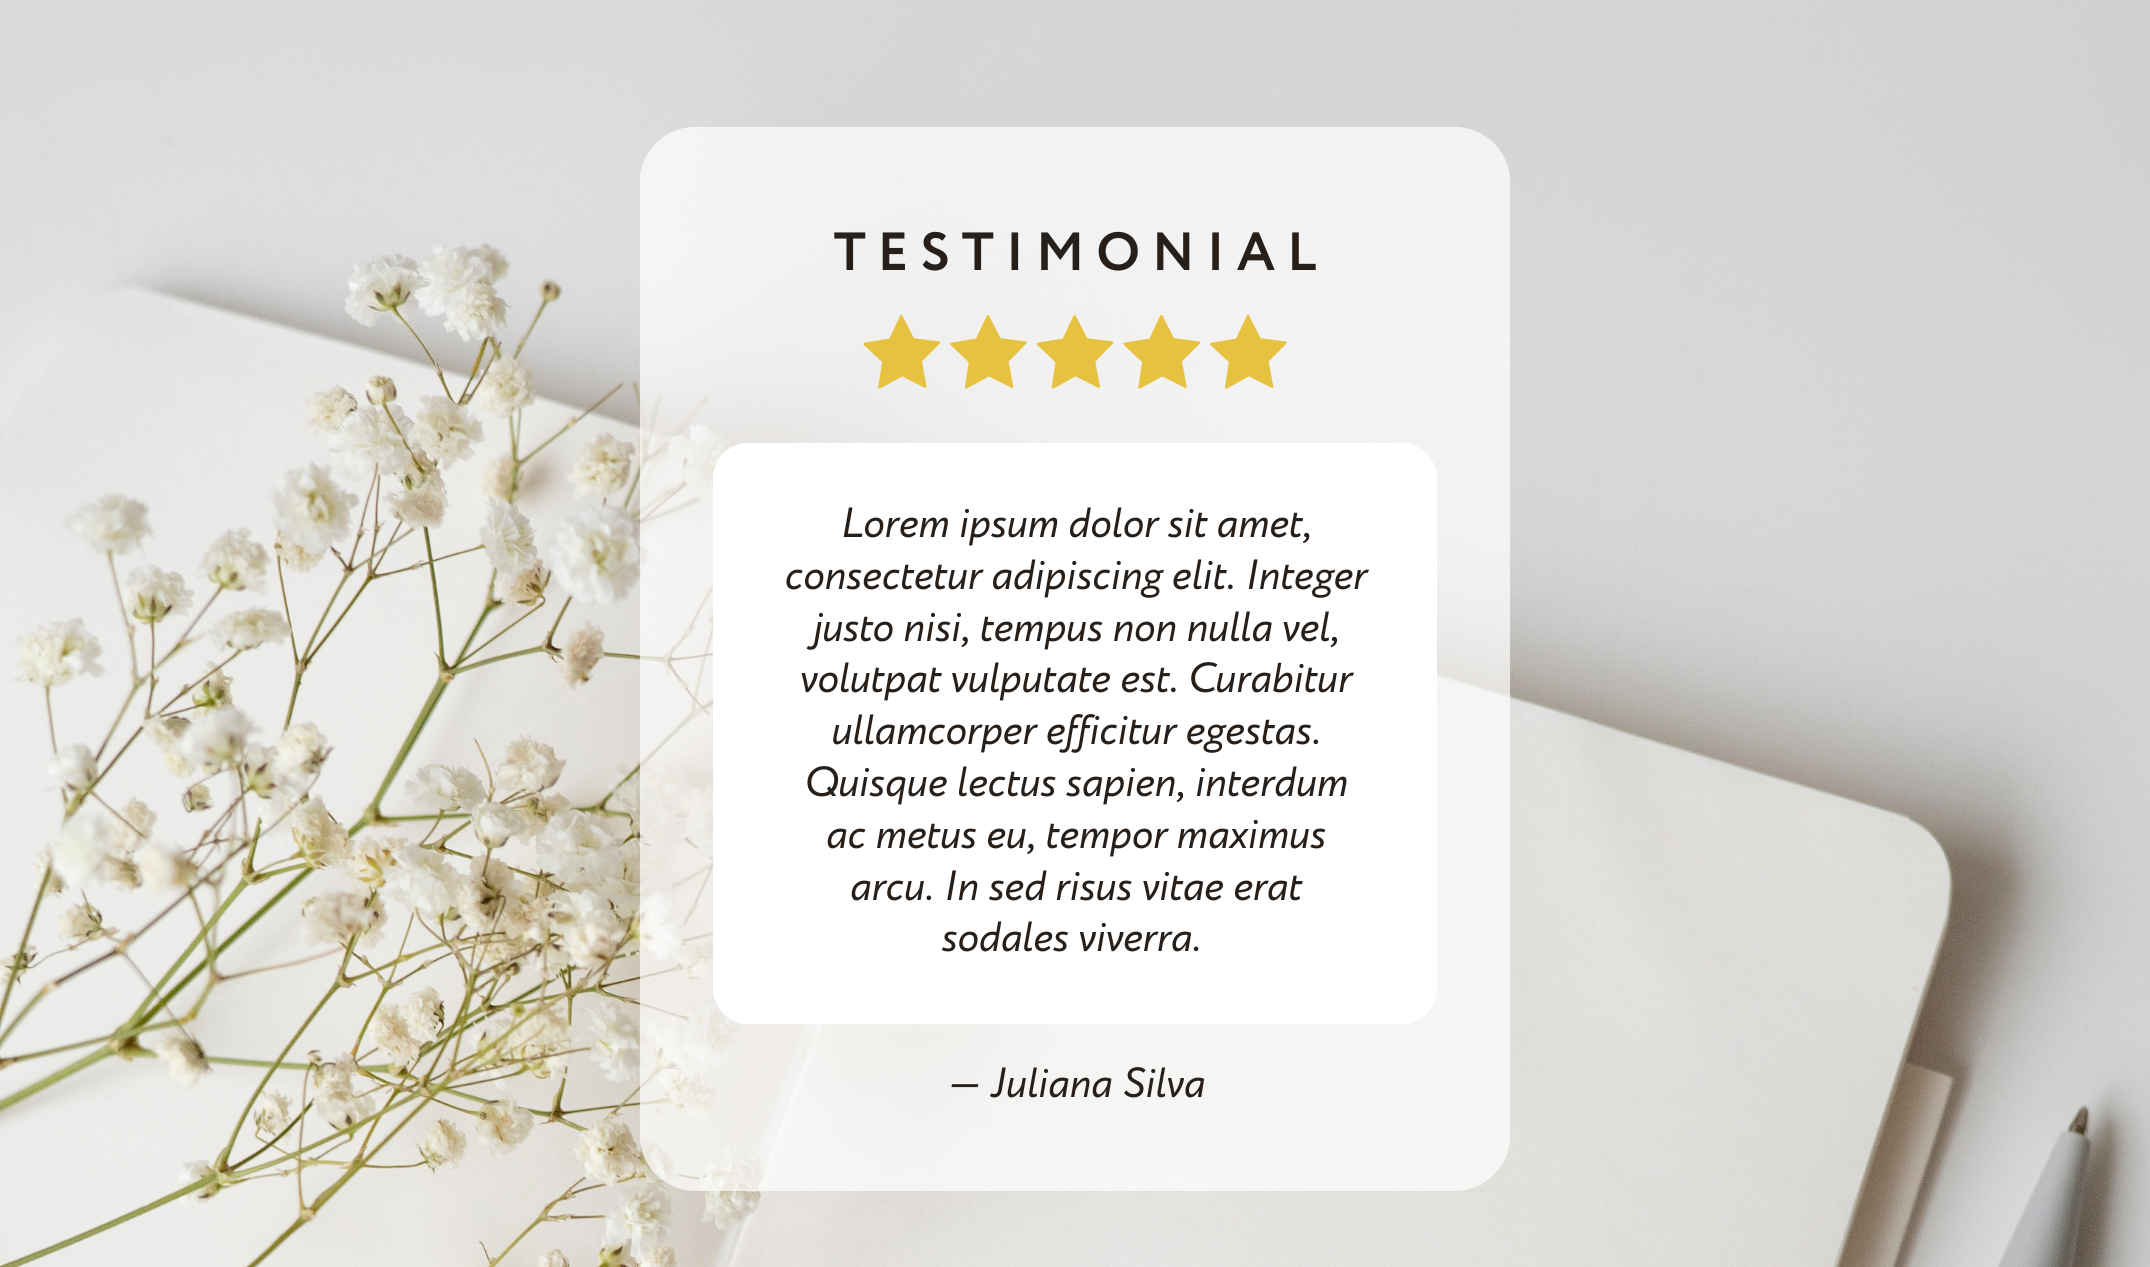
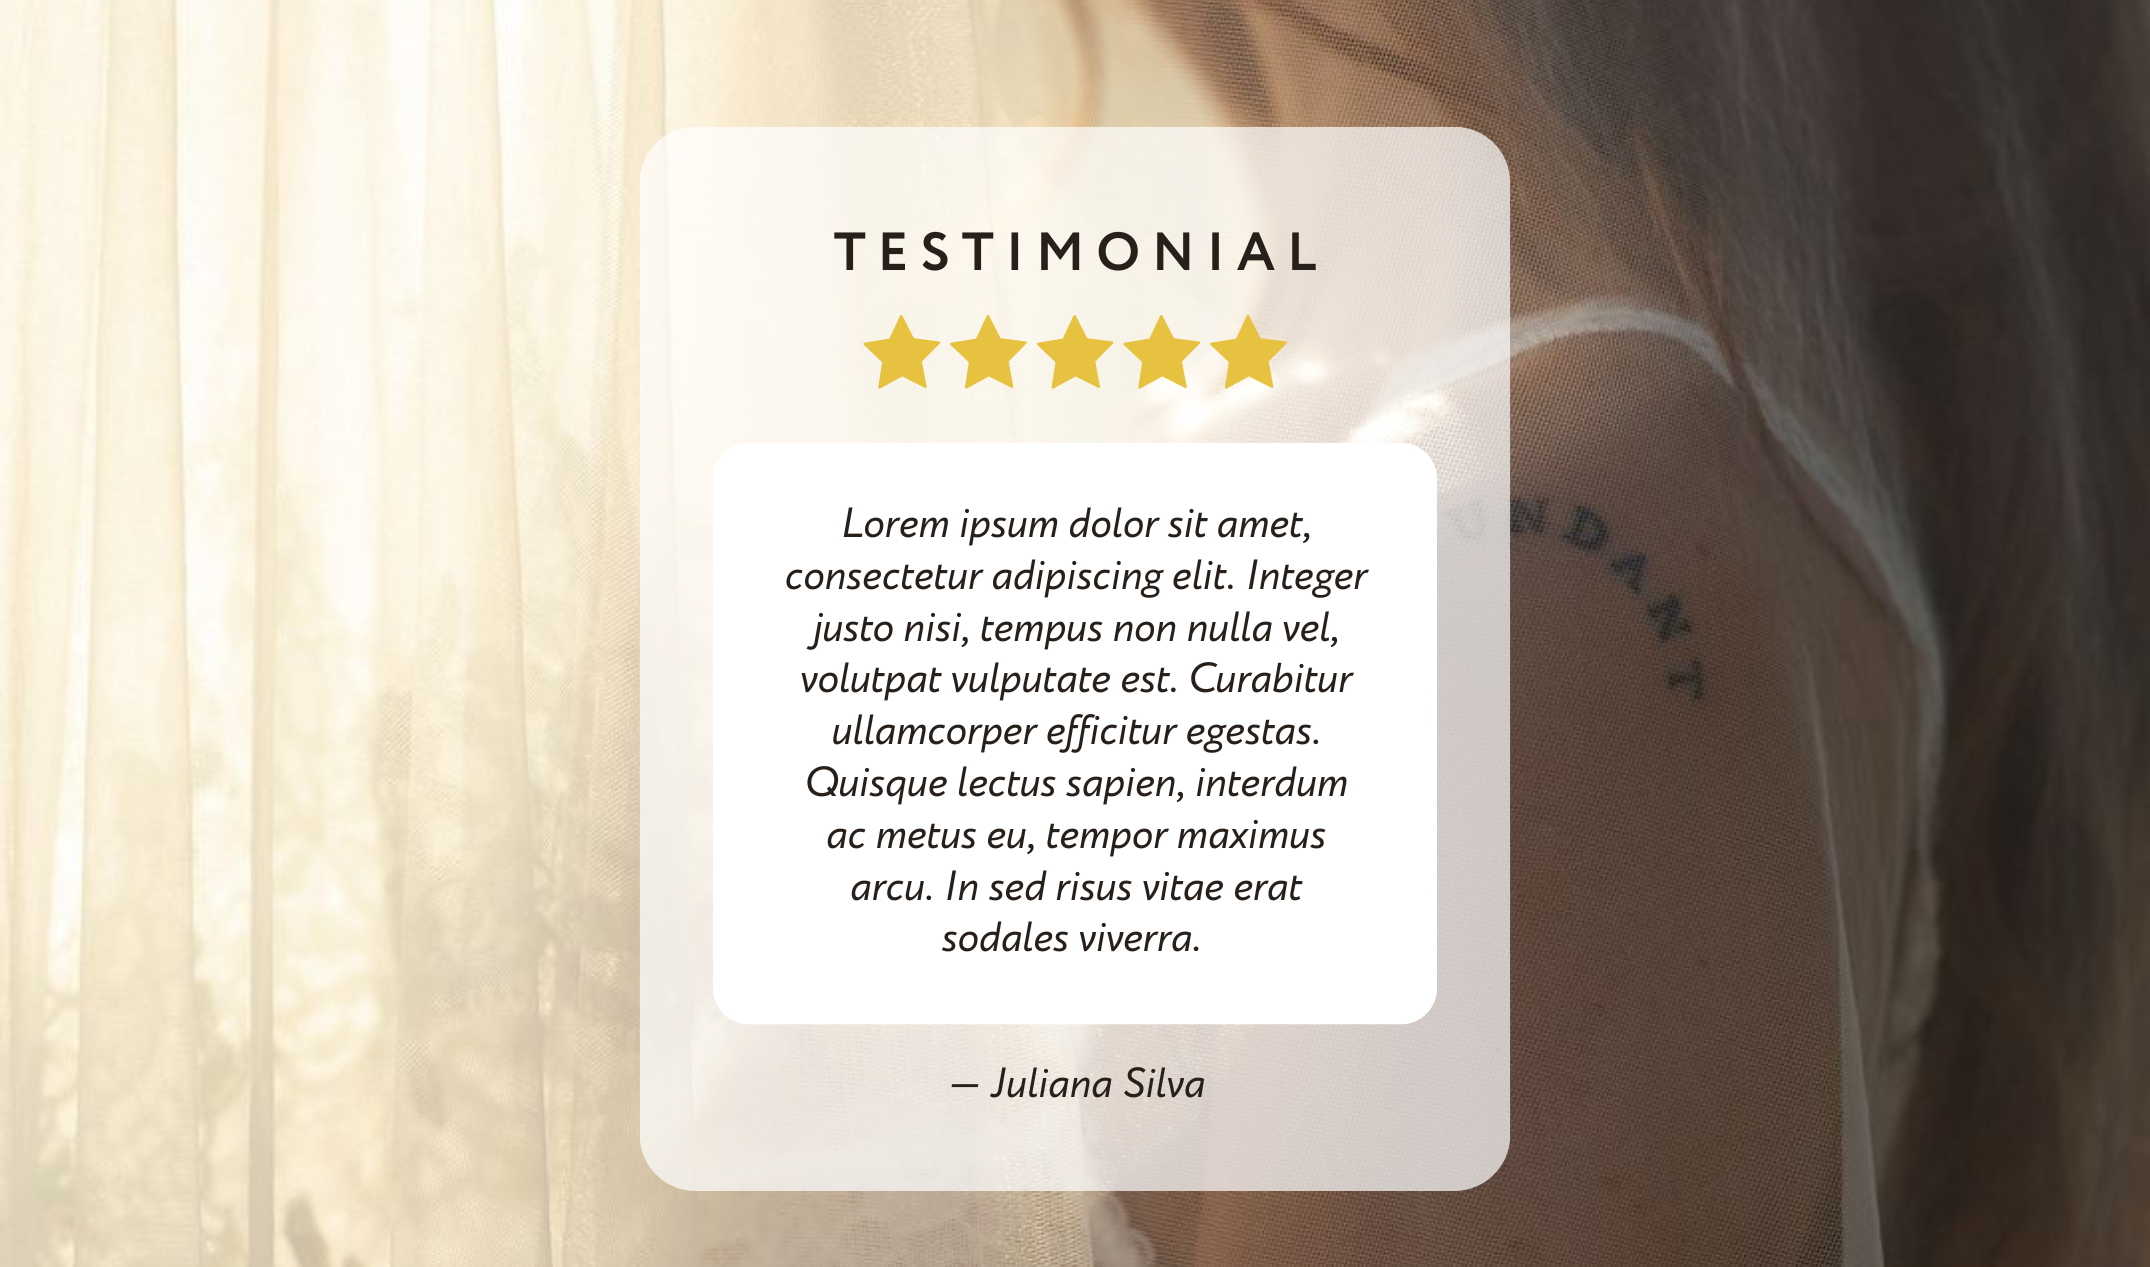
change images

diff --git a/index.html b/index.html
@@ -856,14 +856,14 @@
               </div>
               <div class="swiper-slide">
                 <img
-                  src="images/item1.png"
+                  src="images/item2.png"
                   alt="img"
                   class="img-fluid rounded-4"
                 />
               </div>
               <div class="swiper-slide">
                 <img
-                  src="images/item1.png"
+                  src="images/item3.png"
                   alt="img"
                   class="img-fluid rounded-4"
                 />
